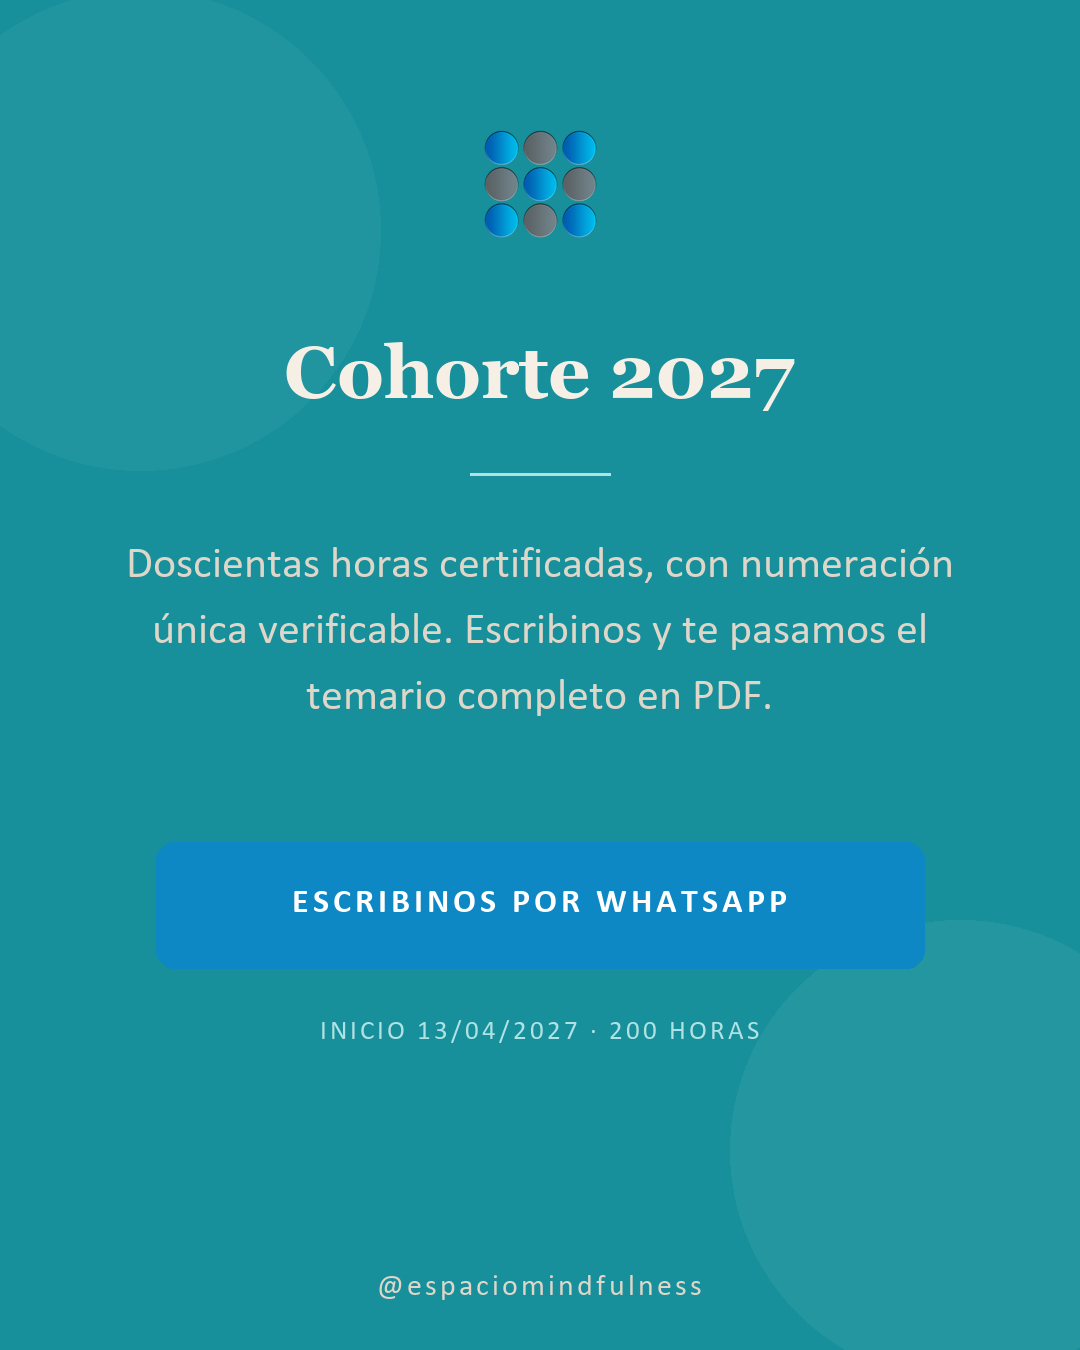
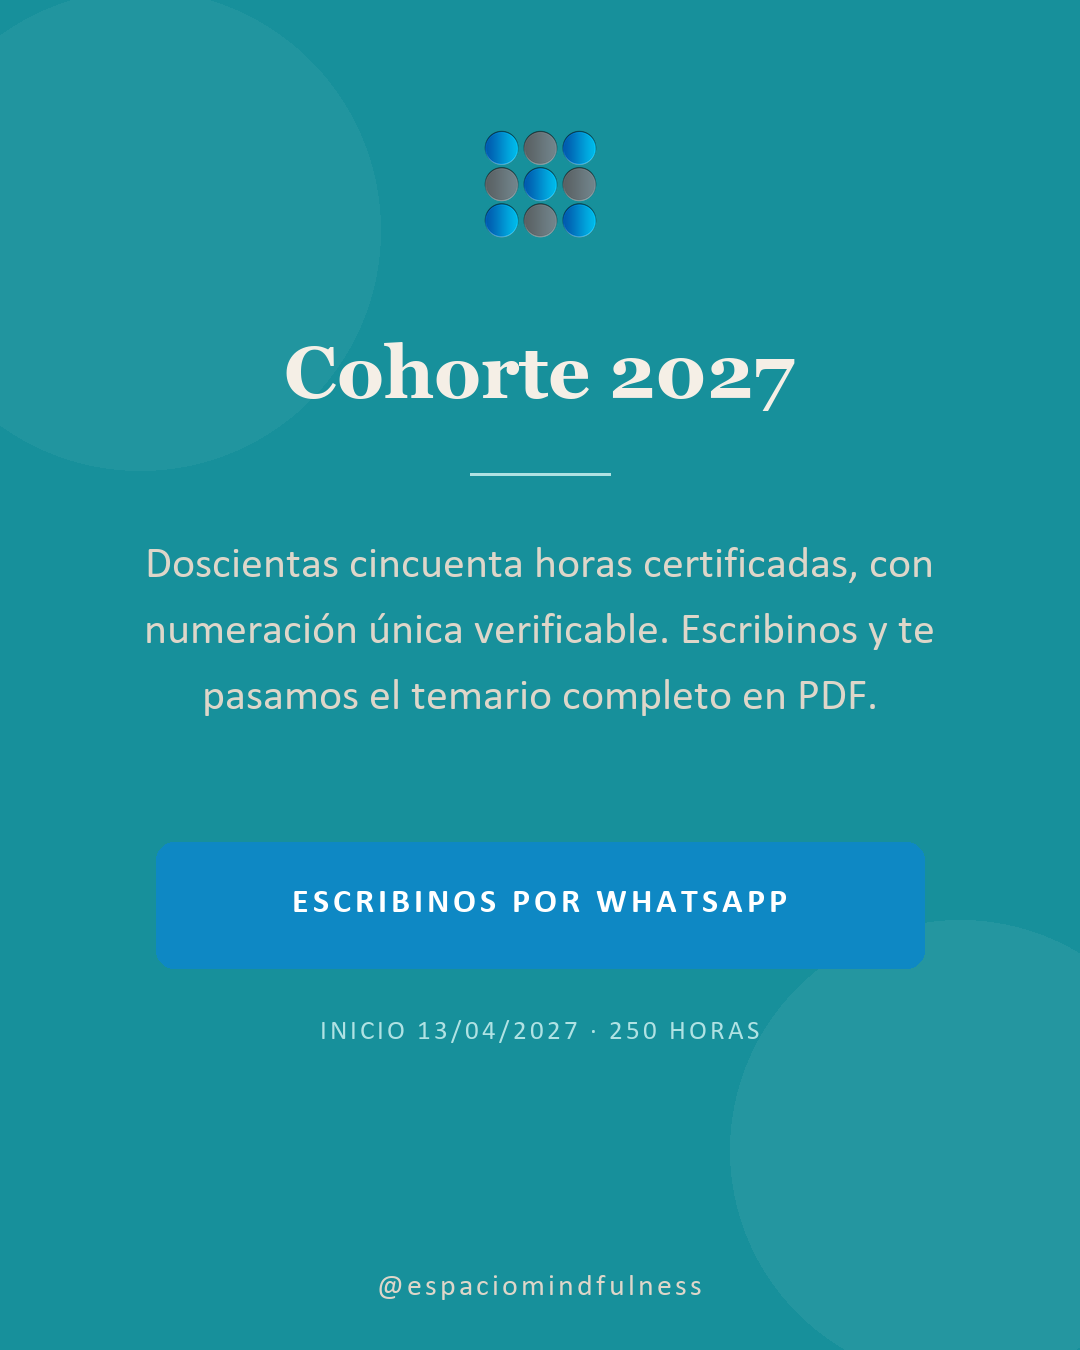
Diplomado: 250 horas, como dice la landing

Changed region(s): [[0.1222, 0.4044, 0.8861, 0.5289]]

diff --git a/disenio/gen_correccion_cupo.py b/disenio/gen_correccion_cupo.py
@@ -30,10 +30,8 @@ Datos de las formaciones — FUENTE: las landings publicadas, chequeadas el
   presencial el sabado 18/12/2027 en Buenos Aires. 17 modulos en 5 bloques.
   Mindfulness clinico, ACT y Compasion bajo el marco de la Psicoterapia
   Basada en Procesos.
-  Carga horaria: 200 hs. Confirmado por Christian el 04/09/2026. OJO: la
-  landing todavia dice 250 hs certificadas — hay que corregirla ahi, porque
-  si el numero de la web y el de Instagram no coinciden, el que pregunta se
-  queda con la duda.
+  Carga horaria: 250 hs, igual que la landing. Confirmado por Christian el
+  04/09/2026. (El tablero interno dice 200: esa nota quedo vieja, no seguirla.)
 """
 from piezas import *
 
@@ -140,9 +138,9 @@ def p51_diplomado():
             "de integración con casos reales.")),
         ("post51_diplomado_5.png", cierre_cta(
             "Cohorte 2027",
-            "Doscientas horas certificadas, con numeración única "
+            "Doscientas cincuenta horas certificadas, con numeración única "
             "verificable. Escribinos y te pasamos el temario completo en PDF.",
-            "ESCRIBINOS POR WHATSAPP", "INICIO 13/04/2027 · 200 HORAS")),
+            "ESCRIBINOS POR WHATSAPP", "INICIO 13/04/2027 · 250 HORAS")),
     ]
 
 

diff --git a/disenio/recaption_cupo.py b/disenio/recaption_cupo.py
@@ -85,8 +85,8 @@ NUEVAS = {
   "clínicos reales.\n\n"
   "Diecisiete módulos en cinco bloques, y uno de ellos es solo de integración "
   "clínica — que es donde suelen quedar cortas las formaciones que enseñan "
-  "los modelos por separado. Doscientas horas certificadas, con numeración "
-  "única verificable.\n\n"
+  "los modelos por separado. Doscientas cincuenta horas certificadas, con "
+  "numeración única verificable.\n\n"
   "Escribinos y te pasamos el temario completo en PDF 🌿", HT_PRO),
 }
 
